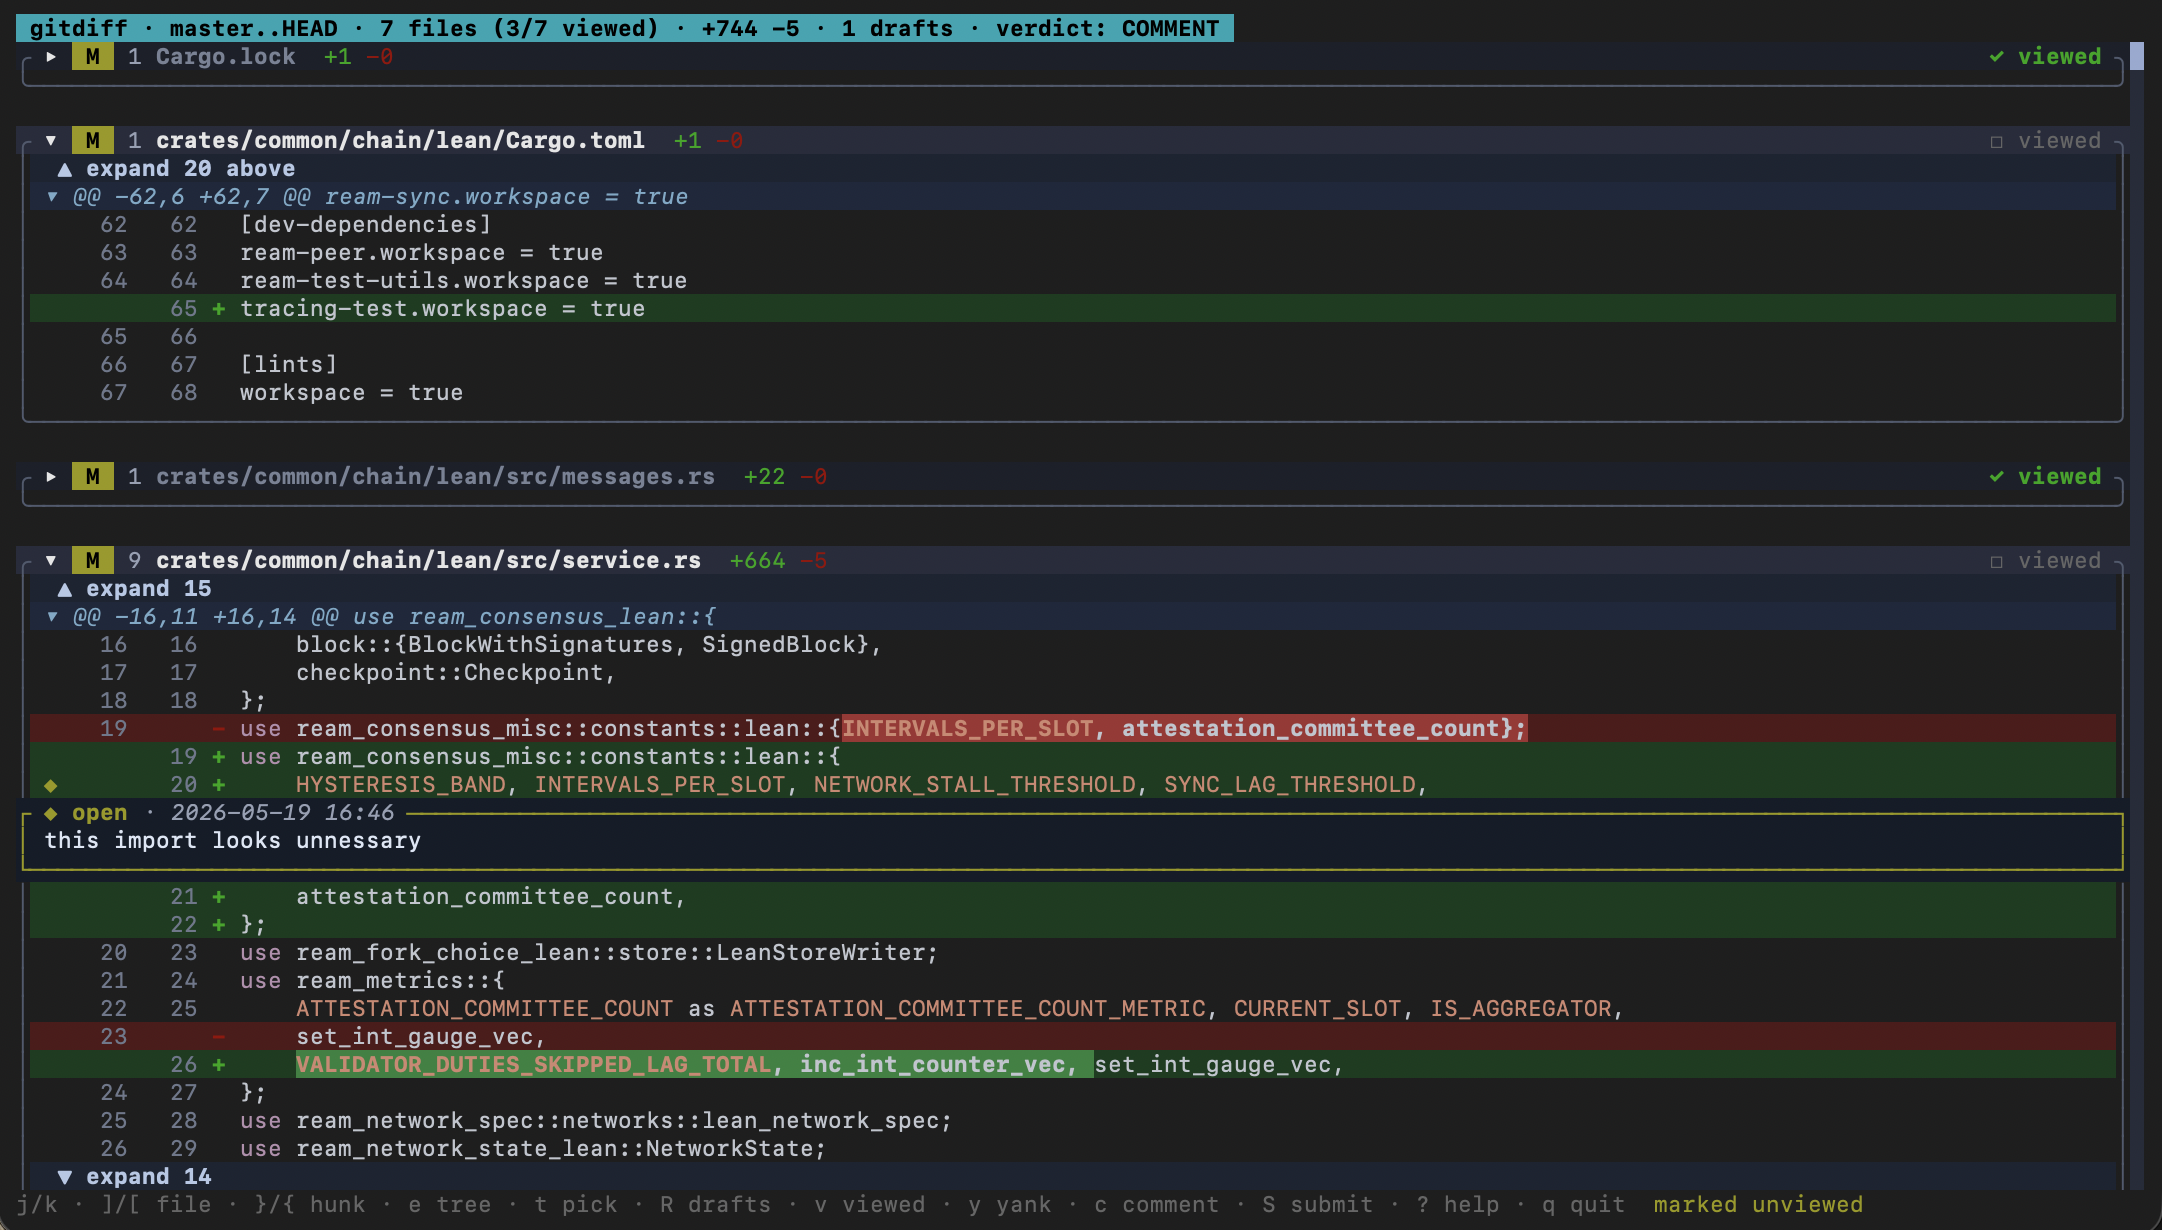
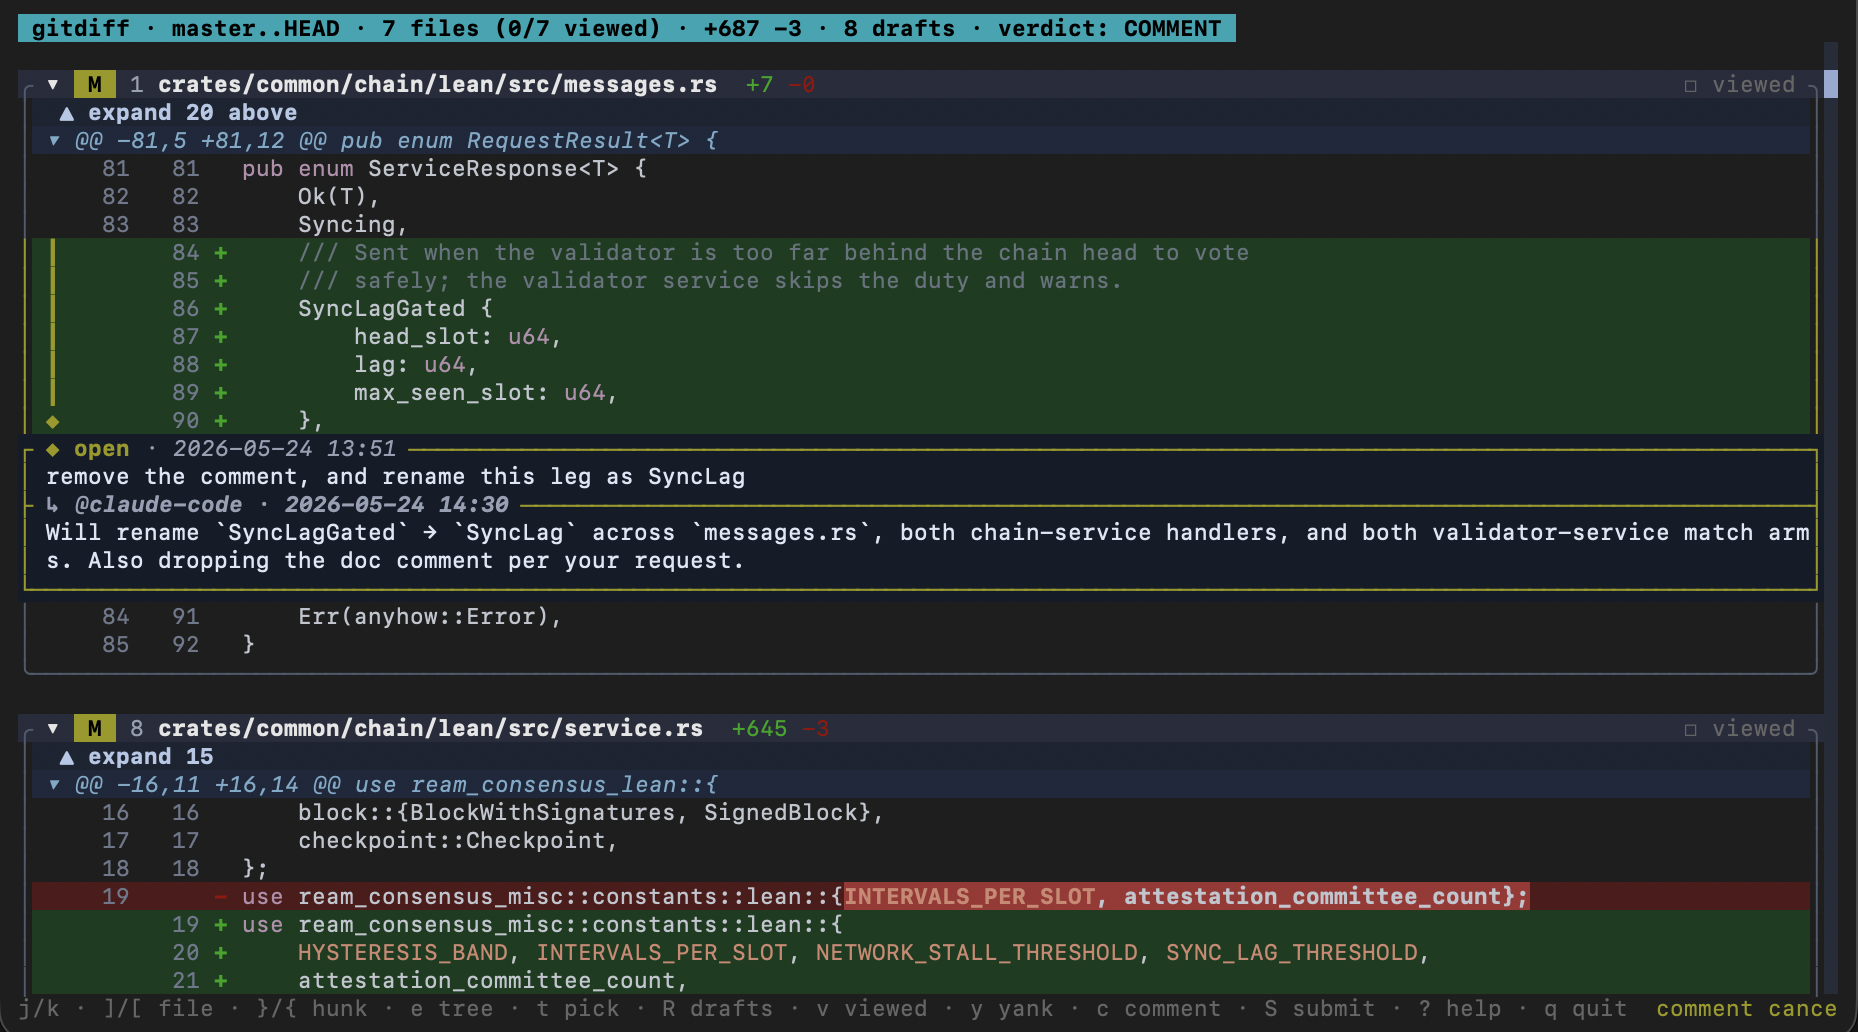
README: swap screenshot to show a comment thread with an agent reply

diff --git a/README.md b/README.md
@@ -4,7 +4,7 @@ A Rust + ratatui TUI for reviewing local git changes like a GitHub PR — withou
 pushing or opening a PR. Comments are written to a `REVIEW.md` at the repo root,
 in a format a coding agent (or another human) can act on directly.
 
-![gitdiff TUI](https://raw.githubusercontent.com/zemse/gitdiff-tui/main/screenshot.png)
+![gitdiff TUI — comment thread with an agent reply](https://raw.githubusercontent.com/zemse/gitdiff-tui/main/screenshot.png)
 
 ## Features
 